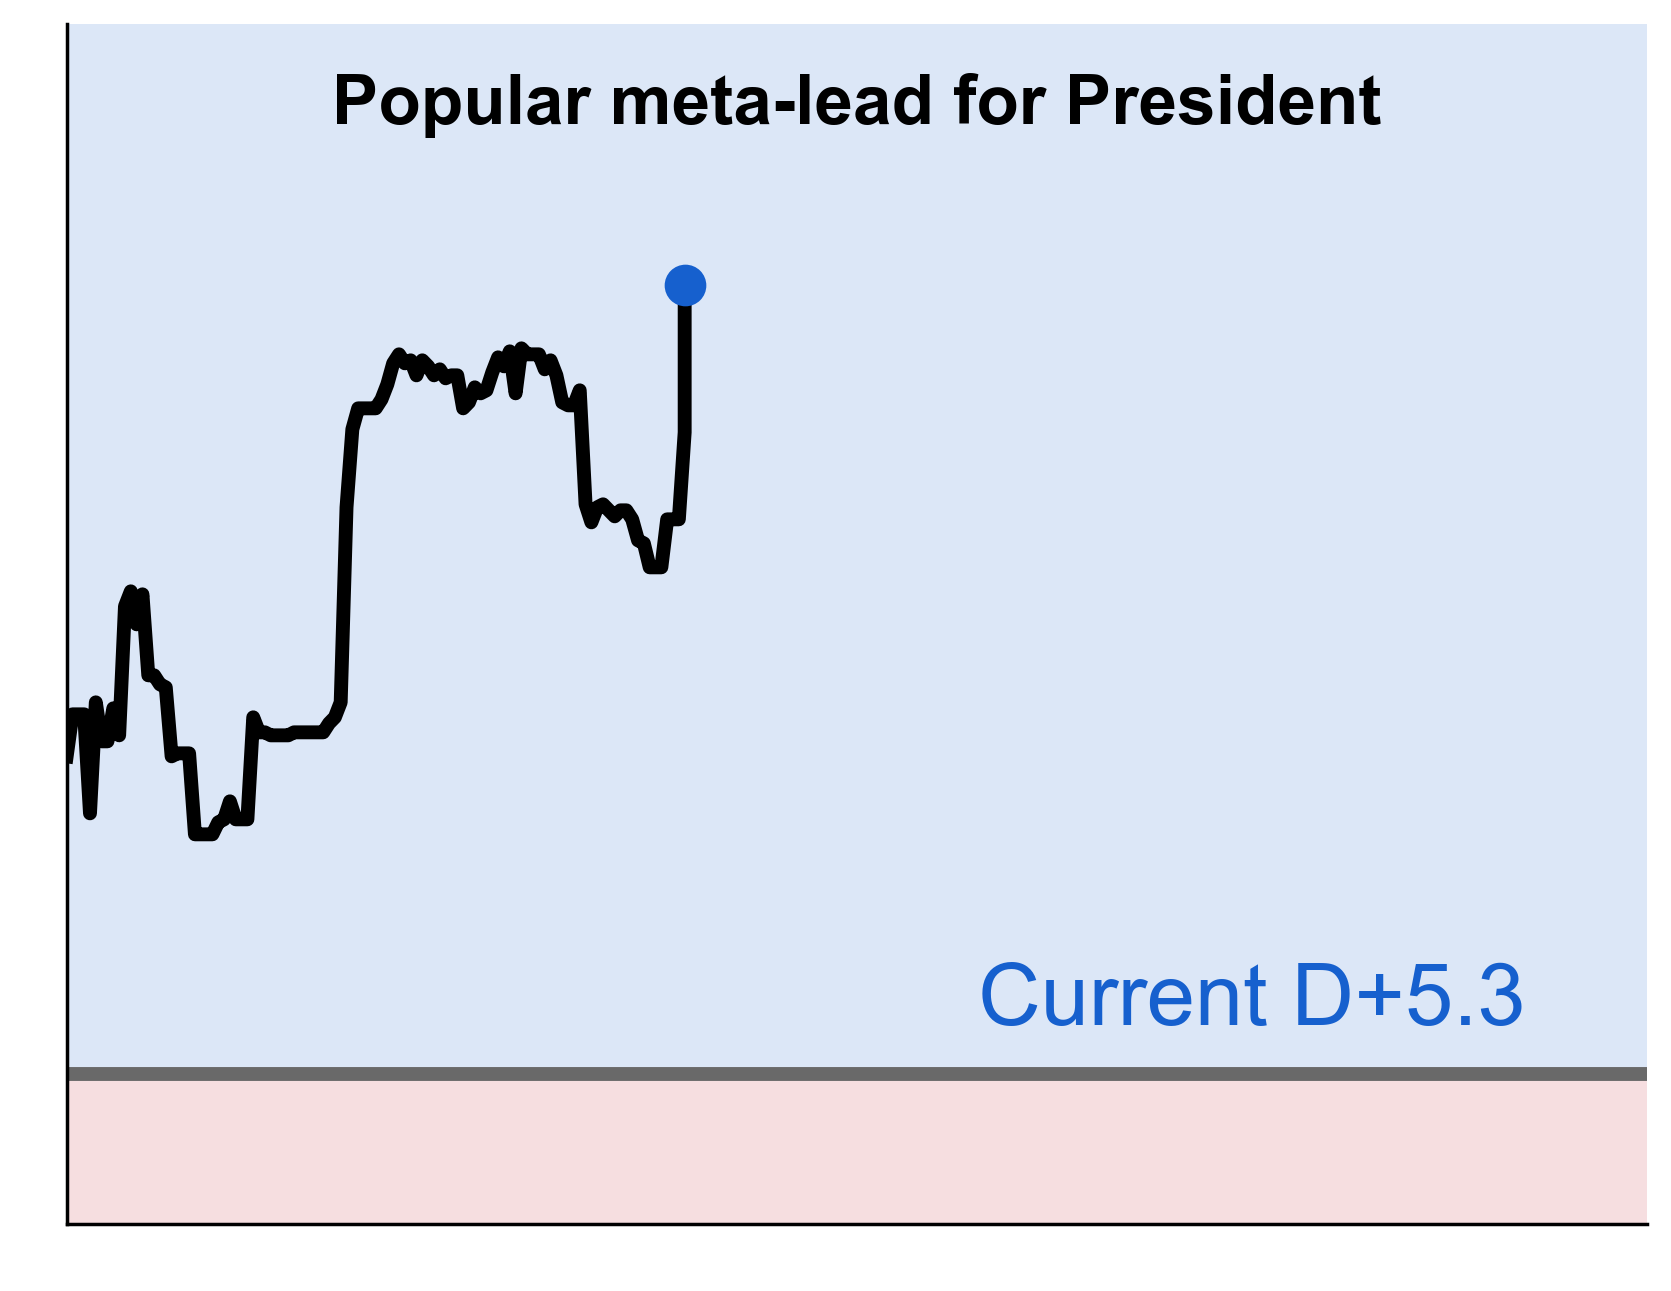
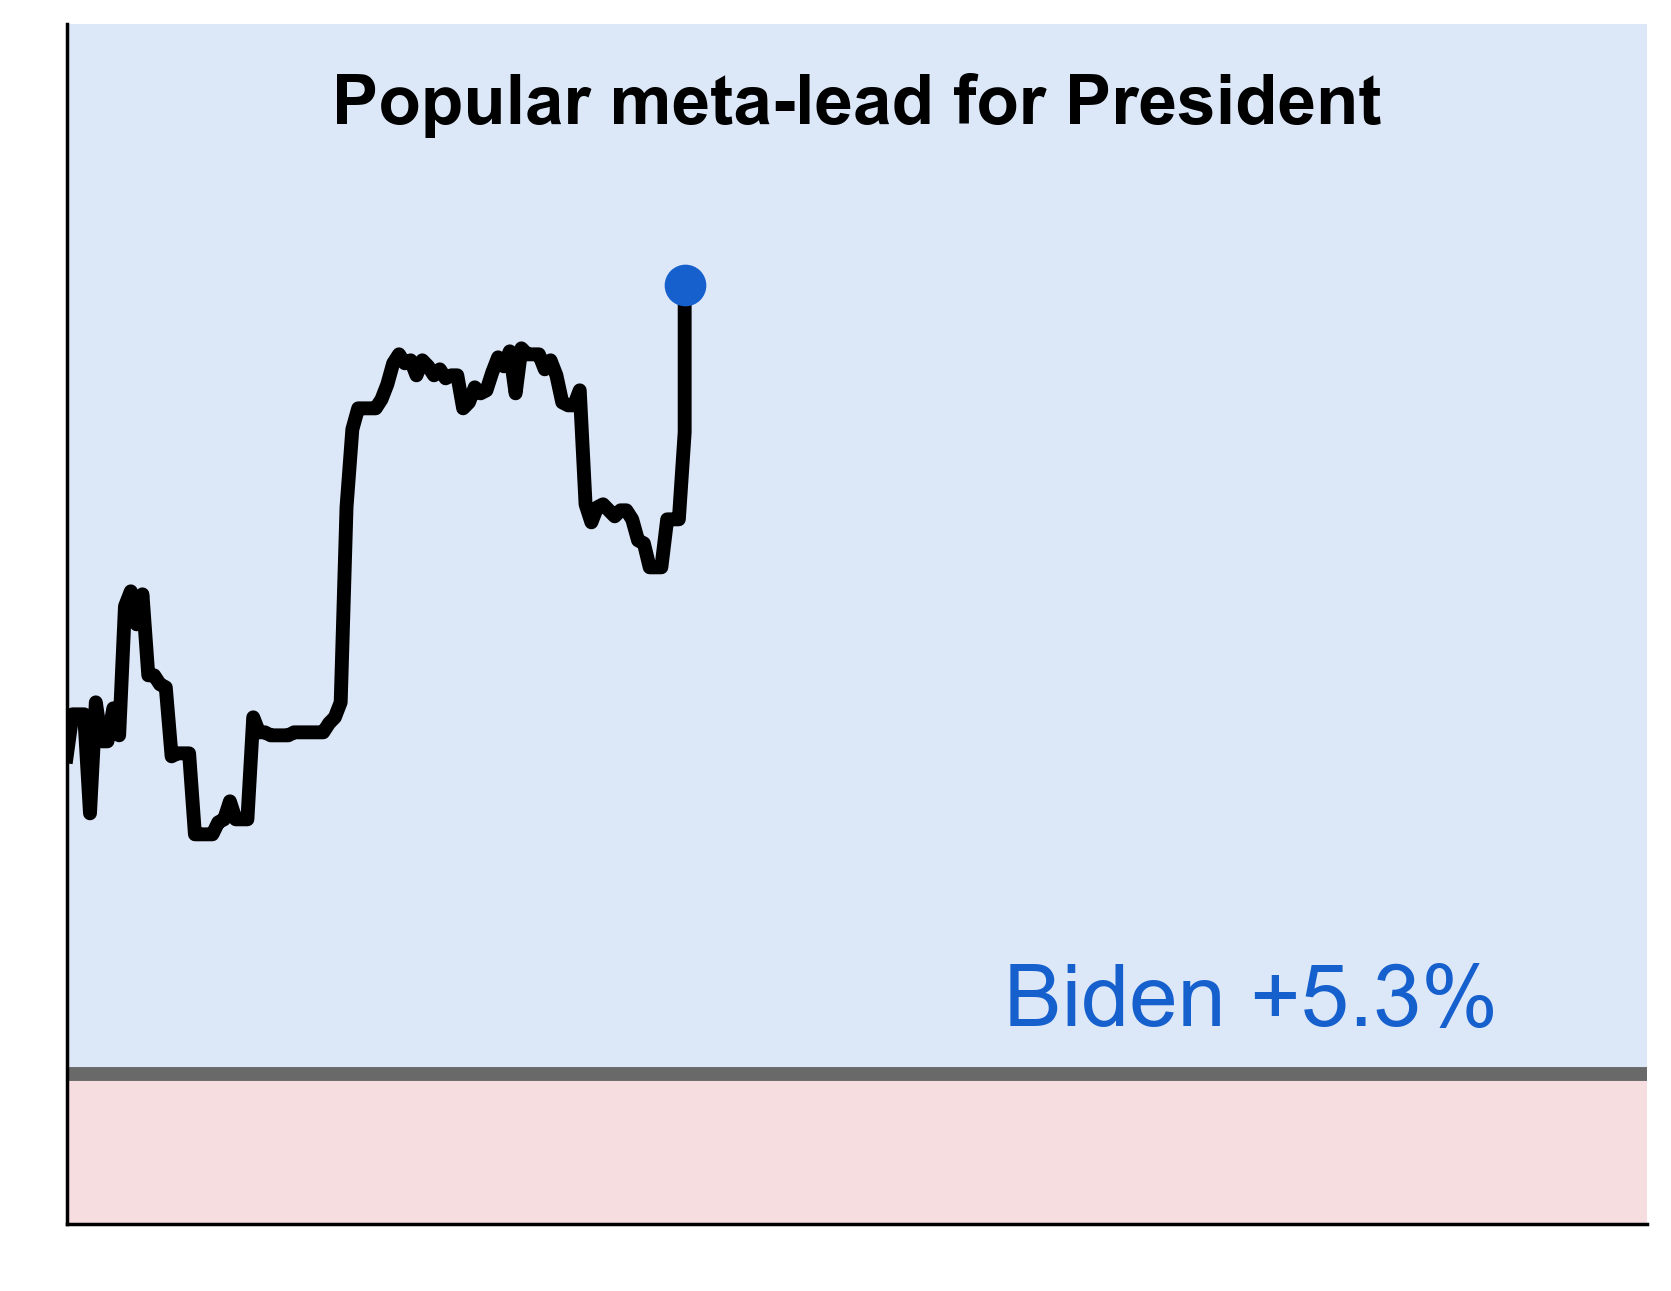
thumbnails final and pres labelfix

Changed region(s): [[0.5913, 0.7436, 0.9336, 0.8056]]

diff --git a/python_graphics/plotting.py b/python_graphics/plotting.py
@@ -77,6 +77,7 @@ def generate_line_plot(
                   ylab_rotation = 0,
                   hline_labels = None,
                   hline_label_units = '',
+                  presidential_2020 = False,
 
                   hline_lab_xpos = 0.85,
                   watermark = watermark,
@@ -162,10 +163,17 @@ def generate_line_plot(
     # change hline_labels for thumnail versions, set fontsizes 
     # for hline labels
     hlabel_font_size = font_size
-    if thumbnail:
+    if thumbnail and hline_label_units == "given":
+        hlabel_font_size = font_size * 1.25
+    elif thumbnail and not plot_customization and hline_labels is not None:
         hlabel_font_size = font_size * 1.25
         rounded_last_value = round(float(title_fillers['last_value']), 1)
-        if rounded_last_value > 0:
+        if presidential_2020:
+            if rounded_last_value > 0:
+                hline_labels[1] = "Biden +" + str(rounded_last_value) + hline_label_units 
+            else: hline_labels[1] = "Trump +" + str(rounded_last_value) + hline_label_units 
+
+        elif rounded_last_value > 0:
             if hline_label_units == "seats":
                 hline_labels[1] = "Current D+" + str(round(rounded_last_value/10,1)) + " " + hline_label_units
             else:
@@ -445,17 +453,18 @@ def generate_line_plot(
         for t in ax.get_yticks():
             ytls.append(make_str(t))
             ytls2.append(make_str(t-new_ax_offset))
-        ax.set_yticklabels(ytls)
-        ax2.set_yticklabels(ytls2)
+        if not thumbnail:
+            ax.set_yticklabels(ytls)
+            ax2.set_yticklabels(ytls2)
 
-        ax.text(1 + ylab_pad * size_scale,
-                0.5,
-                '2020 generic ballot D-R',
-                fontsize=font_size,
-                rotation=-ylab_rotation,
-                ha='center',
-                va='center',
-                transform=ax.transAxes)
+            ax.text(1 + ylab_pad * size_scale,
+                    0.5,
+                    '2020 generic ballot D-R',
+                    fontsize=font_size,
+                    rotation=-ylab_rotation,
+                    ha='center',
+                    va='center',
+                    transform=ax.transAxes)
         
         lv = title_fillers['last_value']
         lv = lv - new_ax_offset
@@ -464,13 +473,21 @@ def generate_line_plot(
         elif lv < 0:
             title_fillers['party'] = 'R+'
         title_fillers['last_value'] = lv
-        ax.set_title(title_txt.format(**title_fillers),
-                 pad=title_pad * size_scale,
-                 fontsize=font_size,
-                 weight='bold')
+        if not thumbnail:
+            ax.set_title(title_txt.format(**title_fillers),
+                    pad=title_pad * size_scale,
+                    fontsize=font_size,
+                    weight='bold')
+        else:
+            ax.set_title(title_txt.format(**title_fillers),
+                    y = 0.9,
+                    fontsize=font_size,
+                    weight='bold')
+        
+        if thumbnail:
+            ax2.get_xaxis().set_visible(False)
+            ax2.get_yaxis().set_visible(False)
 
-    #********************************************************************************************
-    # adjustments if a thumbnail image
     if thumbnail:
         ax.get_xaxis().set_visible(False)
         ax.get_yaxis().set_visible(False)
@@ -486,7 +503,7 @@ def generate_line_plot(
     pl.close(fig)
 
 def generate_histogram(
-                  # data parametersA
+                  # data parameters
                   data_dir = data_dir,
                   data_file = data_file,
                   vline_xpos = None,
@@ -552,6 +569,9 @@ def generate_histogram(
                   # output parameters
                   out_path = out_path,
                   out_format = out_format,
+
+                  # generate a thumnail image
+                  thumbnail = False,
                 ):
 
     # load data
@@ -684,6 +704,7 @@ def generate_histogram(
                  )
 
     # last date label
+    if thumbnail: last_date_label_pos = None
     if last_date_label_pos is not None:
         h_filename = data_file.split('_')[0] + '_estimate_history'
         c_filename = h_filename + '_columns'
@@ -711,24 +732,34 @@ def generate_histogram(
                 transform=fig.transFigure)
 
     # watermark
-    ax.text(watermark_pos[0],
-            watermark_pos[1],
-            watermark,
-            fontsize=font_size-4,
-            color='black',
-            alpha=0.3,
-            style='italic',
-            ha='center',
-            va='center',
-            zorder=200,
-            transform=ax.transAxes)
+    if not thumbnail:
+        ax.text(watermark_pos[0],
+                watermark_pos[1],
+                watermark,
+                fontsize=font_size-4,
+                color='black',
+                alpha=0.3,
+                style='italic',
+                ha='center',
+                va='center',
+                zorder=200,
+                transform=ax.transAxes)
+    
+    # adjustments if a thumbnail image
+    if thumbnail:
+        ax.get_xaxis().set_visible(False)
+        ax.get_yaxis().set_visible(False)
 
     # save out figure
     dpi = width_pixels_save / width
     if not out_path.endswith(out_format):
         out_path = f'{out_path}.{out_format}'
-    pl.savefig(out_path, dpi=dpi)
+    if thumbnail:
+        pl.savefig(out_path, dpi=dpi, bbox_inches='tight')
+    else:
+        pl.savefig(out_path, dpi=dpi)
     pl.close(fig)
+
 
 def generate_dual_line_plot(*args, **kwargs):
     pass

diff --git a/python_graphics/main.py b/python_graphics/main.py
@@ -32,6 +32,7 @@ generate_line_plot(
         title_txt = 'Popular meta-lead for Senate control',
         hline_ypos = 0,
         hline_labels = ['R control', 'D+I control'],
+        hline_label_units = '%',
         hline_lab_xpos = 0.75,
         title_pad = 0,
         shading = True,
@@ -50,7 +51,9 @@ generate_line_plot(
         yticklab_format = True,
         title_txt = 'Popular meta-lead for President',
         hline_ypos = 0,
-        hline_labels = ['R control', 'D+I control'],
+        hline_labels = ['Trump leads','Biden leads'],
+        hline_label_units = '%',
+        presidential_2020 = True,
         shading = True,
         out_path=path)
 
@@ -66,7 +69,9 @@ generate_line_plot(
         yticklab_format = True,
         title_txt = 'Popular meta-lead for President',
         hline_ypos = 0,
-        hline_labels = ['R control', 'D+I control'],
+        hline_labels = ['Trump leads','Biden leads'],
+        hline_label_units = '%',
+        presidential_2020 = True,
         hline_lab_xpos = 0.75,
         title_pad = 0,
         shading = True,
@@ -105,17 +110,6 @@ generate_line_plot(
         thumbnail = True,
         out_path=path)
 
-
-print("plotted all")
-quit()
-
-
-
-
-
-
-
-
 path = os.path.join(out_dir, 'president_estimator')
 generate_line_plot(
         data_file = 'EV_estimate_history.csv',
@@ -138,6 +132,31 @@ generate_line_plot(
         color_reverse = True,
         out_path=path)
 
+## generate thumbnail version
+path = os.path.join(out_dir, 'thumb_president_estimator')
+generate_line_plot(
+        data_file = 'EV_estimate_history.csv',
+        strike_zone_data_file = 'EV_prediction.csv',
+        x_column='date',
+        y_column='median_EV0', # 0=biden, 1=trump
+        x_minus_yvalues=533, # to make in terms of trump
+        yerr_columns=['95ci_lower', '95ci_upper'],
+        ylim=None,
+        yticks_interval=40,
+        ylab_rotation=90,
+        ylab_pad=0.00,
+        title_txt='{last_value:.0f} Trump electoral votes expected',
+        strike_colors = ['#c62535', (.97, .965, .494)],
+        hline_ypos = 270,
+        hline_labels = ['Biden leads', 'Trump leads'],
+        hline_label_units = "given",
+        hline_lab_xpos = 0.35,
+        hline_lab_pad = 0.05,
+        color_reverse = True,
+        title_pad = 0,
+        thumbnail = True,
+        out_path=path)
+
 path = os.path.join(out_dir, 'senate_histogram')
 generate_histogram(
         data_file = 'Senate_histogram.csv',
@@ -153,6 +172,23 @@ generate_histogram(
         title_txt='Median: {median_value:.0f} D+I Senate seats',
         vline_xpos = 49.6,
         vline_labels = ['R\ncontrol', 'D+I\ncontrol'],
+        out_path=path)
+
+## generate thumbnail version
+path = os.path.join(out_dir, 'thumb_senate_histogram')
+generate_histogram(
+        data_file = 'Senate_histogram.csv',
+        xvals=np.arange(44, 61),
+        ylim=(0, 1.15),
+        xlim=(46, 56.5),
+        xticks_interval=1,
+        yticks_interval=5,
+        ylab_rotation=90,
+        ylab_pad=0.00,
+        title_txt='Median: {median_value:.0f} D+I Senate seats',
+        vline_xpos = 49.6,
+        vline_labels = ['R\ncontrol', 'D+I\ncontrol'],
+        thumbnail = True,
         out_path=path)
 
 path = os.path.join(out_dir, 'ev_histogram')
@@ -172,6 +208,26 @@ generate_histogram(
         vline_xpos=270,
         vline_labels = ['Trump\nwins', 'Biden\nwins'],
         out_path=path)
+
+## generate thumbnail version
+path = os.path.join(out_dir, 'thumb_ev_histogram')
+generate_histogram(
+        data_file = 'EV_histogram.csv',
+        xvals=None,
+        bar_width=1.0,
+        ylim=(0, 1.15),
+        xlim=(230, 431),
+        xticks_interval=40,
+        yticks_interval=0.4,
+        ylab_rotation=90,
+        ylab_pad=0.00,
+        xlab_txt = 'Electoral votes for Biden',
+        title_txt='Mean: {mean_value:.0f} votes for Biden',
+        vline_xpos=270,
+        vline_labels = ['Trump\nwins', 'Biden\nwins'],
+        thumbnail = True,
+        out_path=path)
+
 
 path = os.path.join(out_dir, 'house_meta_margin')
 generate_line_plot(
@@ -200,4 +256,34 @@ generate_line_plot(
         circle_size = 0,
         watermark_pos=[0.77, 0.95],
         plot_customization = True,
+        out_path=path)
+
+## generate thumbnail version
+path = os.path.join(out_dir, 'thumb_house_meta_margin')
+generate_line_plot(
+        data_dir='../matlab',
+        data_file='2020.generic.polls.median.txt',
+        read_csv_kw = dict(delimiter=r"\s+"),
+        height_to_width=0.55,
+        width=9,
+        axes_box = [0.19, 0.1, 0.60, 0.75],
+        x_column='date',
+        y_column='median_margin',
+        yerr_columns=['esd'],
+        xtick_pad=0.018,
+        ylim=(-1, 15),
+        yticks_interval=4,
+        ylab_pad=0.00,
+        ylab_rotation=90,
+        title_txt='House control meta-margin: {party}{last_value:.01f}%',
+        title_pad=5,
+        shading = False,
+        hline_ypos = 3,
+        hline_lw = 0.5,
+        hline_color = 'black',
+        hline_labels = None,
+        circle_size = 0,
+        watermark_pos=[0.77, 0.95],
+        plot_customization = True,
+        thumbnail = True,
         out_path=path)
